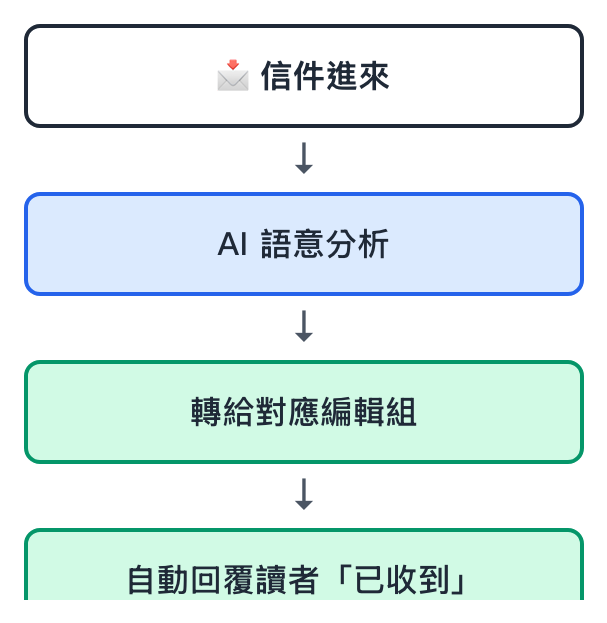
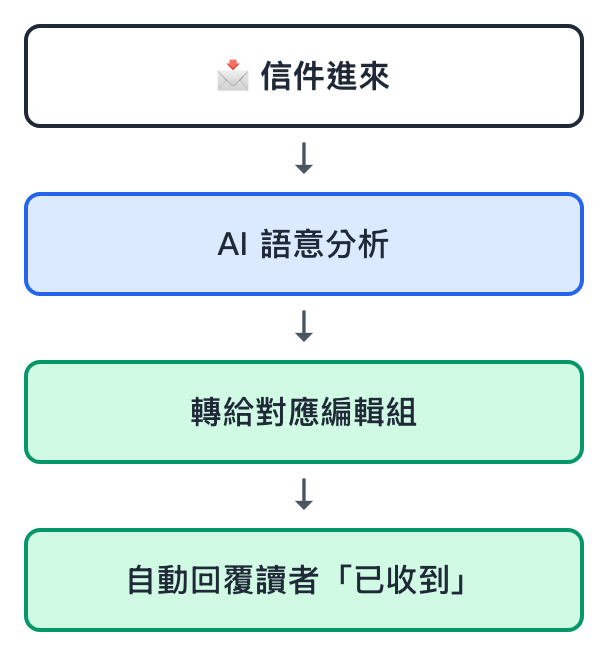
v3.6.1：Q19 A 重生（高度足夠不被切）+ 縮圖最大 240px
- Q19 A 用 700 高度 puppeteer，最後一節點「自動回覆」完整顯示
- CSS 縮圖從 max-width 480px 改 max-height 240px（垂直流程圖更合適）
- 點擊放大功能仍可看大圖

diff --git a/style.css b/style.css
@@ -369,9 +369,10 @@ main {
 }
 .options-with-image .option-image img {
   display: block;
-  width: 100%;
+  width: auto;
   height: auto;
-  max-width: 480px;
+  max-height: 240px;
+  max-width: 100%;
   margin: 0 auto;
 }
 